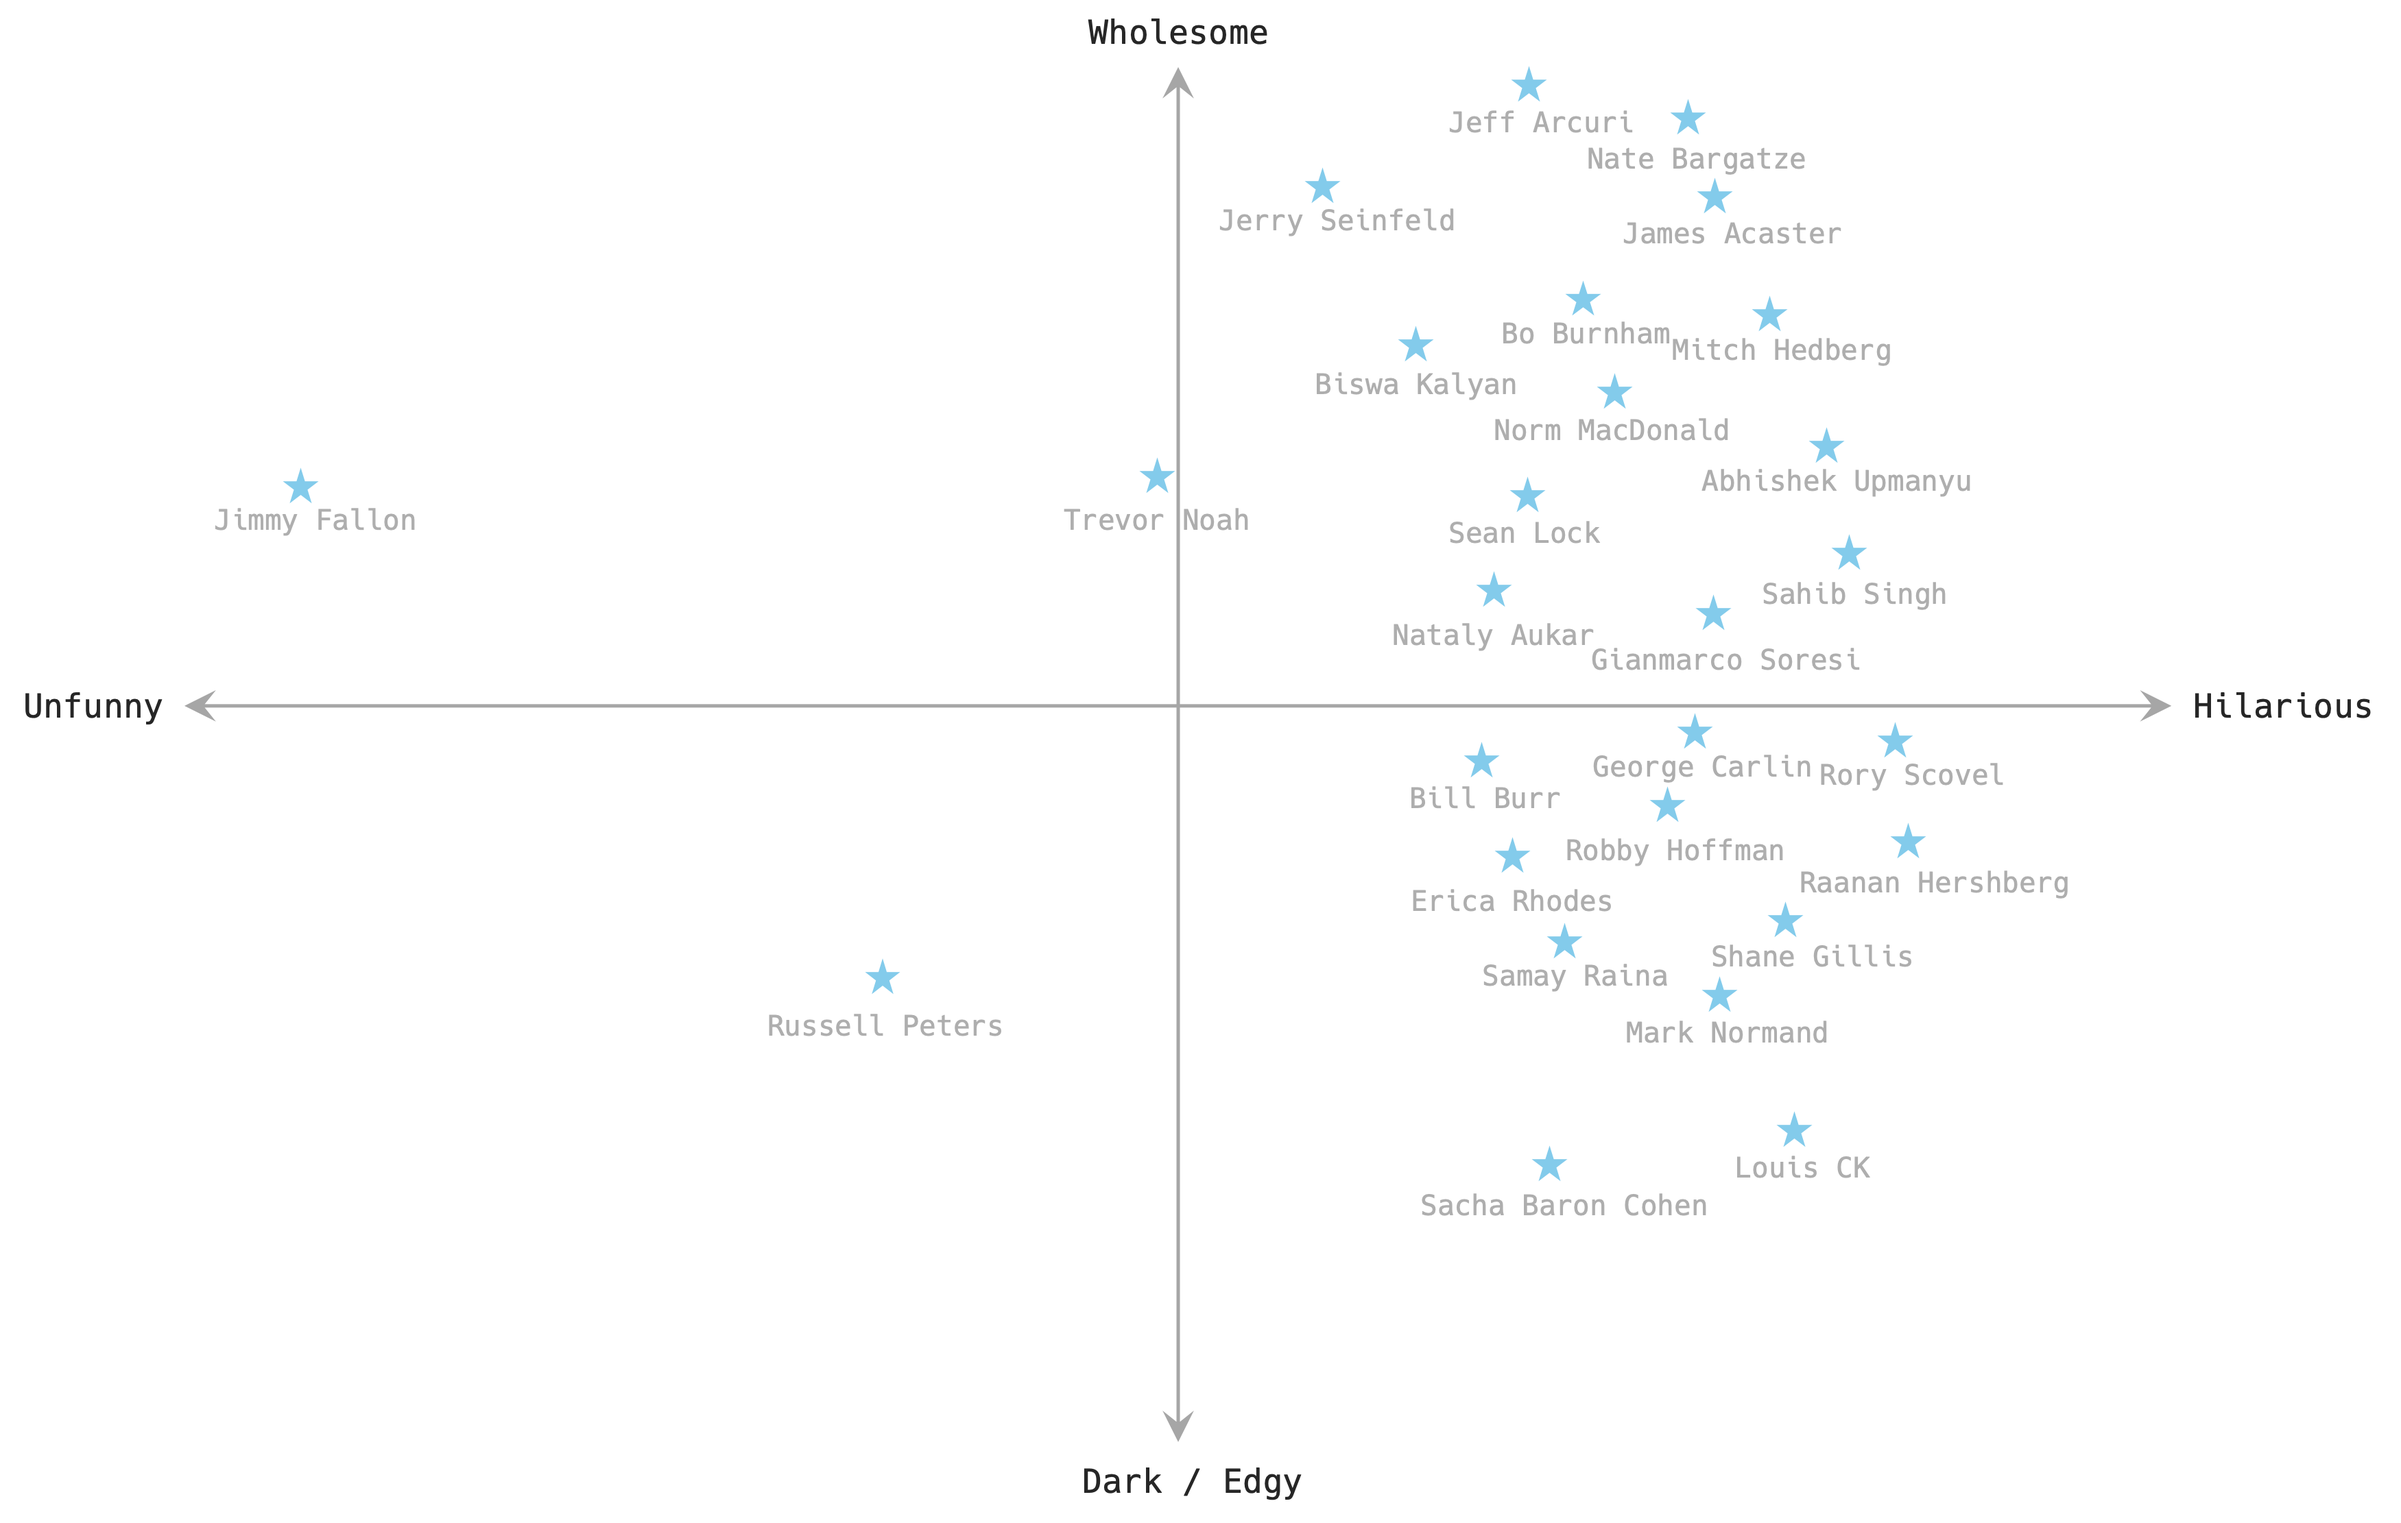
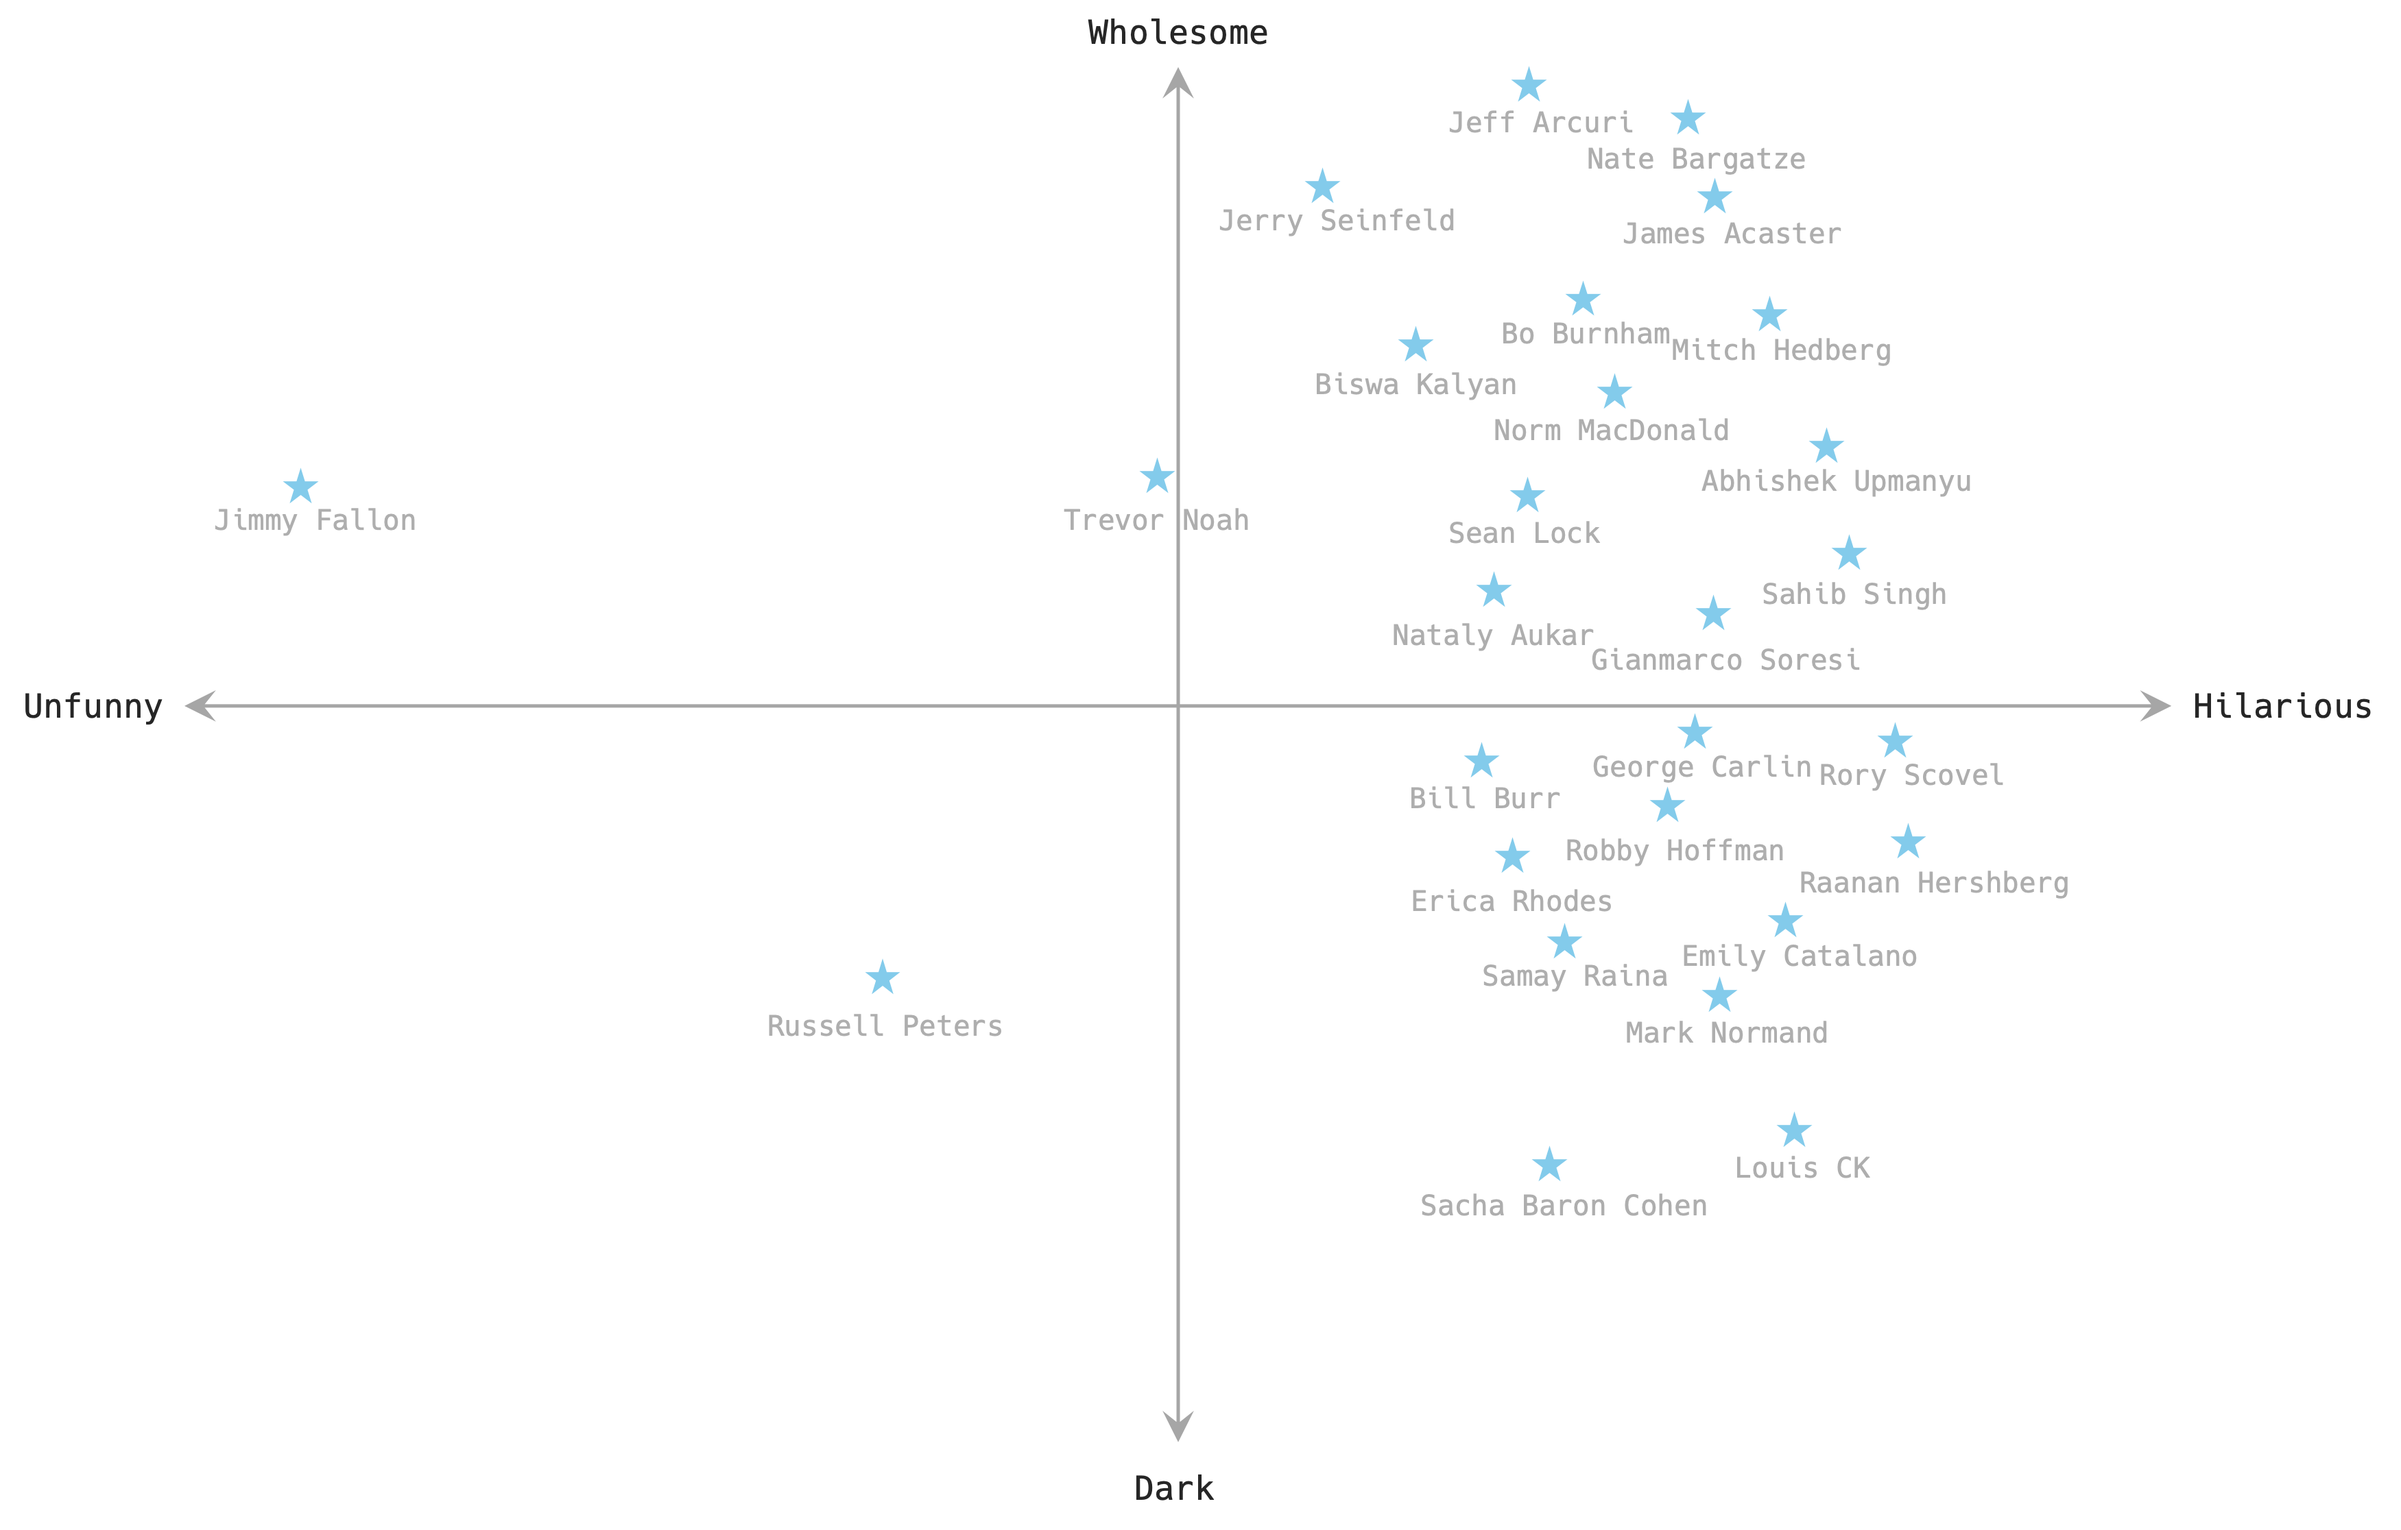
Update chart, move job market announcement, update manifest

diff --git a/index.html b/index.html
@@ -113,10 +113,21 @@
 				<!-- <div class="">this template</div> -->
 				</div>
 			</div>
+
 			<div class="col-md-8 pt-3 about">
+
 				I'm a Ph.D. candidate in Computer Science at <a class="in-text" href="https://illinois.edu/" target="_blank">University of Illinois Urbana-Champaign</a>, advised by <a class="in-text" href="https://radhikam.web.illinois.edu/" target="_blank">Prof. Radhika Mittal</a> and <a class="in-text" href="https://pbg.cs.illinois.edu/" target="_blank">Prof. Brighten Godfrey</a>. I expect to graduate in May 2027.
 
 				<br><br>
+
+				<div class="job-market">
+					<strong>I'm on the job market!</strong>
+					I'm seeking research scientist, research engineer, and
+					systems/infrastructure engineering roles, particularly in
+					distributed systems, cloud infrastructure, and AI systems.
+				</div>
+
+				<br>
 
 				My research focuses on improving the performance and observability of cloud and microservice systems. I build deployable solutions for distributed request tracing, performance diagnosis, and slack-aware scheduling, often without modifying applications. More recently, I've been exploring scheduling and resource management challenges in AI infrastructure and agentic workloads.
 
@@ -125,15 +136,6 @@
 				Previously, I was a research intern at Microsoft Research in Redmond, working on optimizing latency and resource utilization in large-scale telemetry analytics systems. Before my Ph.D., I was a <a class="in-text" href="https://www.microsoft.com/en-us/research/academic-program/research-fellows-program-at-microsoft-research-india/" target="_blank">Research Fellow</a> at Microsoft Research India, where I worked with <a class="in-text" href="https://www.microsoft.com/en-us/research/people/padmanab/" target="_blank">Dr. Venkat Padmanabhan</a>, <a class="in-text" href="https://www.microsoft.com/en-us/research/people/nagarajn/" target="_blank">Dr. Nagarajan Natarajan</a>, and <a class="in-text" href="https://www.microsoft.com/en-us/research/people/johannes/" target="_blank">Dr. Johannes Gehrke</a> on networking and cloud systems. I received my B.Tech. in Computer Science from NIT Trichy in 2018.
 
 				<br><br>
-
-				<div class="job-market">
-					<strong>I'm on the job market for 2027!</strong>
-					I'm seeking research scientist, research engineer, and
-					systems/infrastructure engineering roles, particularly in
-					distributed systems, cloud infrastructure, and AI systems.
-				</div>
-
-				<br>
 
 				<span class="personal-note">
 					Outside of research, I listen to a lot of indie music (<a class="in-text" href="https://sachin.cs.illinois.edu/currentsong" target="_blank"><i class="fa fa-music" aria-hidden="true"></i> on repeat lately</a>), build custom <span class="keyboard-hover"><a class="in-text" href="images/keyboard.jpeg" target="_blank"><i class="fa fa-keyboard-o" aria-hidden="true"></i> mechanical keyboards</a><img src="images/keyboard.jpeg" class="keyboard-preview" alt="My custom mechanical keyboard"></span>, take fantasy football a little too seriously (2025 league champ, naturally), and enjoy stand-up comedy enough to have made a <span class="standup-hover"><a class="in-text" href="images/standup-chart.png" target="_blank"><span class="iconify" data-icon="mdi:chart-scatter-plot" data-inline="true" aria-hidden="true"></span> chart</a><img src="images/standup-chart.png" class="standup-preview" alt="Scatter plot rating stand-up comedians"></span>. I'm also pro reading, especially introductions, forewords, and those blurbs at the back of the books.
